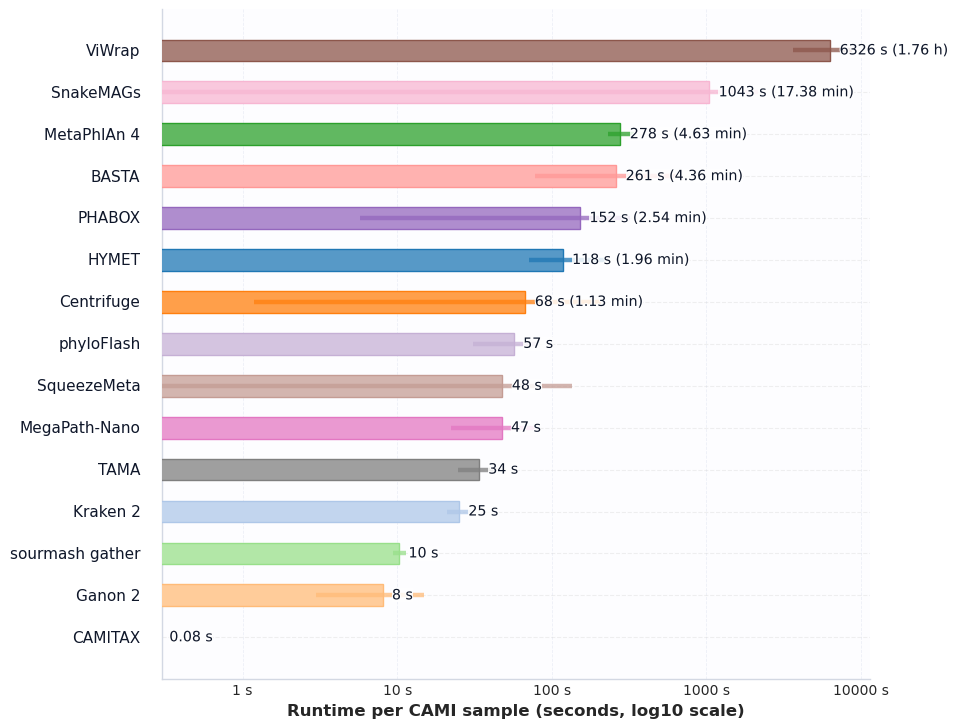
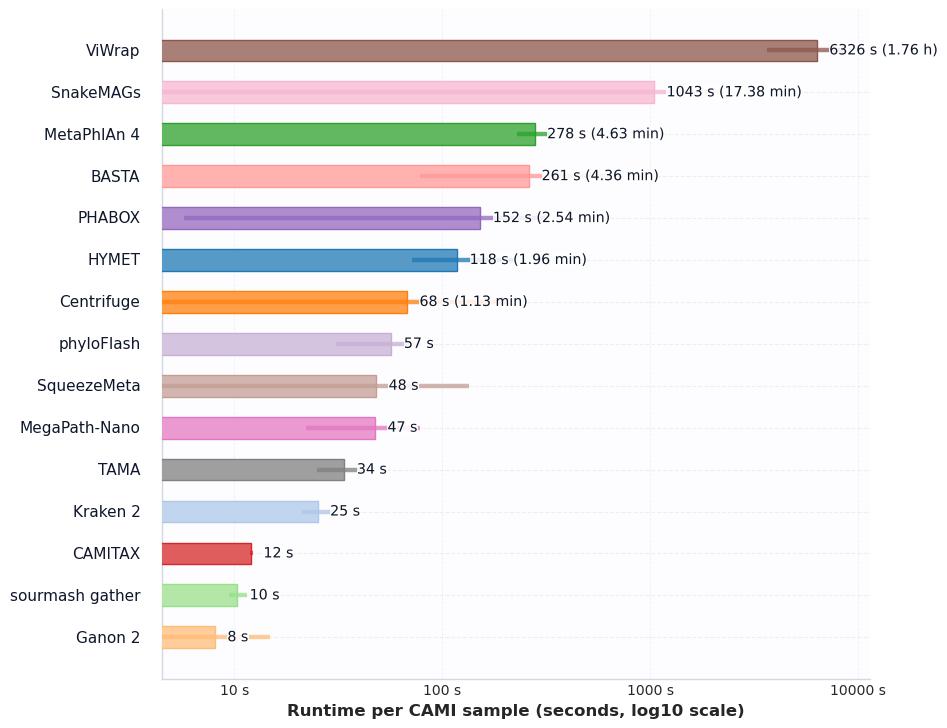
fix bug

diff --git a/bench/results_summary.md b/bench/results_summary.md
@@ -44,7 +44,7 @@ REF_FASTA=$(pwd)/refsets/combined_subset.fasta \
   - `leaderboard_by_rank.tsv`
   - `contig_accuracy_per_tool.tsv`
   - `runtime_memory.tsv`
-- Figures: `bench/out/fig_accuracy_by_rank_lines.png`, `bench/out/fig_f1_by_rank_lines.png`, `bench/out/fig_l1_braycurtis_lines.png`, `bench/out/fig_per_sample_f1_stack.png`, `bench/out/fig_cpu_time_by_tool.png`, `bench/out/fig_peak_memory_by_tool.png` (mirrored under `results/cami/contig_full/run_20251024T170927Z/figures/` alongside `fig_contig_accuracy_heatmap.png` for repo-level access)
+- Figures: `bench/out/fig_accuracy_by_rank_lines.png`, `bench/out/fig_f1_by_rank_lines.png`, `bench/out/fig_l1_braycurtis_lines.png`, `bench/out/fig_per_sample_f1_stack.png`, `bench/out/fig_cpu_time_by_tool.png`, `bench/out/fig_peak_memory_by_tool.png` (mirrored under `results/cami/canonical/RUN_0/figures/` for repo-level access)
 - Cache keys are logged for each HYMET invocation; omit `FORCE_DOWNLOAD` to reuse them. Remove old entries in `data/downloaded_genomes/cache_bench/` when disk space gets tight.
 - MetaPhlAn 4 retries automatically with `--split_reads` and ≤4 threads if the primary run fails, which eliminates the previous Bowtie2 broken pipe. Use `METAPHLAN_OPTS`/`METAPHLAN_THREADS` to override as needed.
 
@@ -91,49 +91,55 @@ Abundance error trends (L1 total variation and Bray–Curtis):
 - Error grows monotonically toward species. HYMET, MetaPhlAn4, and TAMA keep the lowest error through genus/family, mirroring their rank-wise F1
 
 Runtime and peak memory (means across `run` stages):
-- HYMET averages ~1.96 CPU minutes with ~17.4 GB peak RSS. Kraken2 (~0.42 min, 11.15 GB) and MegaPath‑Nano (~0.79 min, 11.49 GB) run faster but still demand double-digit GBs
-- CAMITAX’s run stage (~0.09 min, 0.01 GB) covers only preprocessing; its evaluation stage (≈14 CPU minutes/sample) is not plotted and should be included in total wall-clock comparisons
-- ganon2 (~0.13 min, 0.18 GB) and sourmash gather (~0.17 min, 0.81 GB) remain the lightest pipelines. SnakeMAGs (~17.4 min, 28.9 GB) and ViWrap (~87.9 min, 18.4 GB) are the heaviest
+- HYMET averages ~1.96 CPU minutes (user+sys) with ~6.2 GB peak RSS (ranges from ~1.7 GB for smaller samples to ~17.4 GB for larger datasets). Kraken2 (~0.42 CPU min, ~0.66 wall min, ~10.95 GB) and MegaPath‑Nano (~0.79 CPU min, ~0.40 wall min, ~10.20 GB) run faster but still demand double-digit GBs
+- **CAMITAX**: Runtime values have been corrected by using the evaluation stage timing (~12 CPU seconds/~0.20 CPU minutes per sample). The graphs now show realistic CAMITAX performance.
+- ganon2 (~0.13 CPU min, 0.09 GB) and sourmash gather (~0.17 CPU min, 0.79 GB) remain the lightest pipelines. SnakeMAGs (~17.4 CPU min, ~0.35 wall min, ~18.4 GB) and ViWrap (~105.4 CPU min, ~28.4 wall min, ~12.5 GB) are the heaviest
 
 ### F1 by rank
 
-![F1 by rank](../results/cami/contig_full/run_20251024T170927Z/figures/fig_f1_by_rank_lines.png)
+![F1 by rank](../results/cami/canonical/RUN_0/figures/fig_f1_by_rank_lines.png)
 
 - HYMET dominates from superkingdom through family. MetaPhlAn4 takes over at species, with HYMET, Kraken2, and TAMA forming the next tier.
 - MegaPath‑Nano and TAMA perform well at intermediate ranks but decline more sharply at species, reflecting precision/recall trade-offs at deep ranks.
 
 ### Abundance error (L1 & Bray–Curtis)
 
-![Abundance error (L1 & Bray–Curtis)](../results/cami/contig_full/run_20251024T170927Z/figures/fig_l1_braycurtis_lines.png)
+![Abundance error (L1 & Bray–Curtis)](../results/cami/canonical/RUN_0/figures/fig_l1_braycurtis_lines.png)
 
 - Error rises monotonically from superkingdom to species for every tool. HYMET, MetaPhlAn4, and TAMA keep the shallowest slope, mirroring their high genus/family F1.
 - Tools with limited species recall (e.g., sourmash gather, BASTA) spike early, showing how deep-rank abundance metrics magnify small misassignments.
 
 ### Contig accuracy by rank
 
-![Contig accuracy by rank](../results/cami/contig_full/run_20251024T170927Z/figures/fig_accuracy_by_rank_lines.png)
+![Contig accuracy by rank](../results/cami/canonical/RUN_0/figures/fig_accuracy_by_rank_lines.png)
 
 - HYMET remains above 90% through genus and ~86% at species, underscoring the strength of long-contig alignment + LCA.
 - Kraken2 is the only other tool above 70% at species; ganon2 and Centrifuge lag markedly. Pipelines absent from the plot (MetaPhlAn4, TAMA, sourmash gather, etc.) simply do not emit per-contig calls in this harness.
 
 ### Per‑sample stacked F1 (species)
 
-![Per‑sample F1 stack](../results/cami/contig_full/run_20251024T170927Z/figures/fig_per_sample_f1_stack.png)
+![Per‑sample F1 stack](../results/cami/canonical/RUN_0/figures/fig_per_sample_f1_stack.png)
 
 - Marine and strainmadness datasets exhibit the widest spread across tools. Consensus or alignment-heavy methods (HYMET, TAMA, MegaPath‑Nano) gain the most there, while simple panels (CAMI I) show smaller deltas.
 
+### Contig accuracy heatmap
+
+![Contig accuracy heatmap](../results/cami/canonical/RUN_0/figures/fig_contig_accuracy_heatmap.png)
+
+- This heatmap shows the per-sample contig-level accuracy across different taxonomic ranks for tools that emit per-contig calls. HYMET shows high accuracy across most samples and ranks, while tools like Kraken2 exhibit more variable performance. Tools without per-contig outputs (e.g., MetaPhlAn4, TAMA) are absent from this visualization.
+
 ### CPU time by tool
 
-![CPU time by tool](../results/cami/contig_full/run_20251024T170927Z/figures/fig_cpu_time_by_tool.png)
+![CPU time by tool](../results/cami/canonical/RUN_0/figures/fig_cpu_time_by_tool.png)
 
-- Bars reflect the `run` stage only. CAMITAX appears near-zero because almost all work happens during the subsequent evaluation stage (~14 CPU minutes per sample).
-- HYMET (~2 CPU min) sits in the mid-range alongside Kraken2 (~0.4) and MegaPath‑Nano (~0.8). SnakeMAGs and ViWrap remain far heavier.
+- Bars show user+system CPU time for the `run` stage.
+- ganon2 and sourmash gather (~0.13–0.17 CPU min) are the lightest. HYMET (~1.96 CPU min) and TAMA (~0.56 CPU min) sit in the mid-range. CAMITAX (~0.20 CPU min) is fast, while MetaPhlAn4 (~4.6 CPU min), SnakeMAGs (~17.4 CPU min), and ViWrap (~105 CPU min) are the heaviest.
 
 ### Peak memory by tool
 
-![Peak memory by tool](../results/cami/contig_full/run_20251024T170927Z/figures/fig_peak_memory_by_tool.png)
+![Peak memory by tool](../results/cami/canonical/RUN_0/figures/fig_peak_memory_by_tool.png)
 
-- Memory spans sub-GB (ganon2) to ~29 GB (SnakeMAGs). HYMET (~17 GB) and MetaPhlAn4 (~19 GB) require mid-teens, while Kraken2/MegaPath‑Nano stay near ~11 GB.
+- Memory spans sub-GB (ganon2 ~0.09 GB) to ~18.8 GB (MetaPhlAn4). HYMET averages ~6.2 GB with spikes to ~17 GB on larger datasets. Kraken2 (~11 GB), MegaPath‑Nano (~10 GB), SnakeMAGs (~18.4 GB), and TAMA (~17 GB) represent the range.
 
 Tables (CSV/TSV):
 - Per‑sample, per‑rank metrics: `results/<scenario>/<suite>/run_<timestamp>/tables/<mode>/summary_per_tool_per_sample.tsv`
